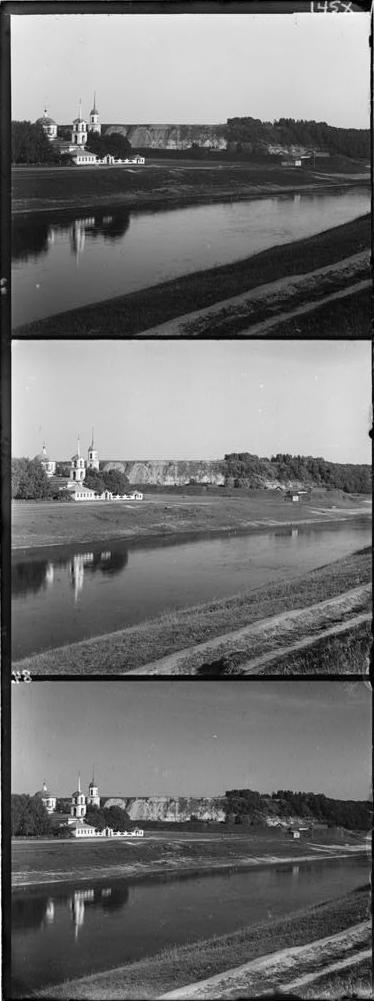
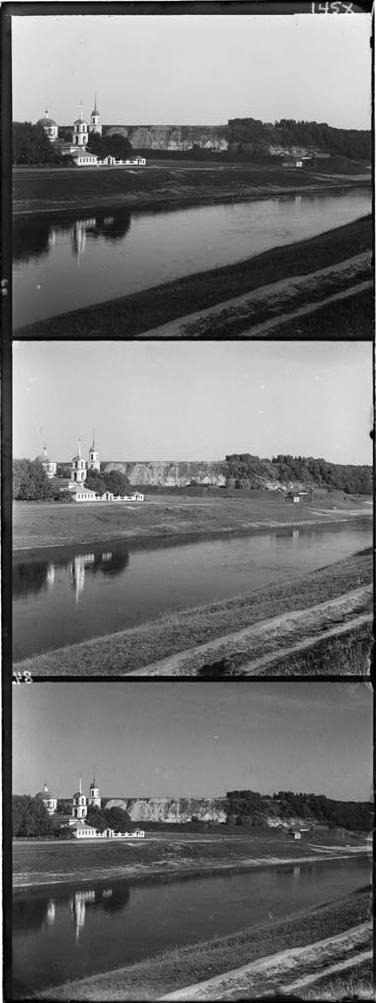
011122

diff --git a/main.py b/main.py
@@ -1,8 +1,15 @@
-import os
+import numpy
+import skimage.color
+
+
+import os, subprocess
+import skimage.io as skiIO
 
 import numpy as np
-import scipy
-import skimage.io as skimgIO
+import skimage.color as skiColor
+
+from skimage.registration import phase_cross_correlation
+import skimage.exposure
 
 def removeWhiteBorder(img:np.ndarray, fileName:str):
     # p = img[10,10] # holds value of background pixel value
@@ -12,63 +19,161 @@ def removeWhiteBorder(img:np.ndarray, fileName:str):
 
     # # checks upper offset of p colored background
     for i in range(0, len(img)): # up (0 to 1024)
-        if(img[i,xMid] < 100):
+        if(img[i,xMid] < 220):
             newBorders[0] = i
             break
     for i in range(len(img)-1, -1, -1): # down (1024 to 0)
-        if(img[i,xMid] < 100):
+        if(img[i,xMid] < 220):
             newBorders[1] = i
             break
     for i in range(0, len(img[0])): # left (0 to 398)
-        if(img[yMid, i] < 100):
+        if(img[yMid, i] < 220):
             newBorders[2] = i
             break
     for i in range(len(img[0])-1, -1, -1): # right (398 to 0)
-        if(img[yMid, i] < 100):
+        if(img[yMid, i] < 220):
             newBorders[3] = i
             break
 
-    img = img[newBorders[0]:newBorders[1], newBorders[2]:newBorders[3]]
-    skimgIO.imsave("./cropped/" + fileName, img)
+    img = img[newBorders[0]:newBorders[1], newBorders[2]:newBorders[3]] # white borders cropped version
+    skiIO.imsave("./cropped/" + fileName, img)
     return img
 
 
-def corr(A:np.ndarray, B:np.ndarray):
-    maxCorr = scipy.signal.correlate2d(A,B)
-    for i in range(0, len(maxCorr)):
-        for j in range(0, len(maxCorr[0])):
-            maxCorr[i][j]
+def offset(A:np.ndarray,B:np.ndarray):
+    off = phase_cross_correlation(A, B)[0]
+    offInt = [int(off[0]), int(off[1])]
 
-    return maxCorr
+    return offInt
+
+
+def shiftArr(arr:np.ndarray, off:np.ndarray):
+    arr = np.roll(arr, off[0], axis=0)
+    arr = np.roll(arr, off[1], axis=1)
+
+    return arr
 
 
 def alignRGB(img:np.ndarray):
-    height = int(len(img)/3)
+
+    height = int(len(img)/3) # find height of each channel
+
+    # get BGR channels
     B = img[0:height]
     G = img[height:2*height]
     R = img[2*height:3*height]
 
-    aligned = np.dstack([R,G,B])
-    return aligned
+    # Shift chanels by offset ========
+    gOffset = offset(B,G)
+    rOffset = offset(B,R)
+
+    G = shiftArr(G, gOffset)
+    R = shiftArr(R, rOffset)
+    # ================================
+
+    return np.dstack([R,G,B])
+
+
+# ================================================================
+# ================================================================
+
+
+def gammaCorrection(img:np.ndarray, gamma:float):
+    return np.uint8(255.0 * (img / 255.0) ** (gamma))
+
+def histogramEquializaiton(img:np.ndarray):
+    hsvimg = skiColor.rgb2hsv(img)
+    val = hsvimg[:,:,2]
+
+    val = skimage.exposure.equalize_hist(val)
+
+    hsvimg[:,:,2] = val
+    img = skiColor.hsv2rgb(hsvimg)
+
+    return img
+
+
+def laplacianFilter8w(img:np.ndarray, coeff:float):
+
+    hsvimg = skiColor.rgb2hsv(img)
+
+    val = hsvimg[:,:,2]
+    newVal = np.ndarray(val.shape, dtype=val.dtype)
+
+    for i in range(1, len(val)-1):
+        for j in range(1, len(val[0])-1):
+            newVal[i][j] = (1.0+coeff*8) * val[i][j] - coeff*(val[i][j+1] + val[i][j-1] + val[i+1][j] + val[i-1][j]
+                                                        + val[i+1][j+1] + val[i+1][j-1] + val[i-1][j+1] + val[i-1][j-1])
+
+    newVal = newVal.clip(0.0,1.0)
+
+    hsvimg[:, :, 2] = newVal
+    img = skiColor.hsv2rgb(hsvimg)
+    img = (img*255)
+    img = numpy.ndarray.astype(img, "uint8")
+    return img
+
+
+def enhanceOpsInterface(img:np.ndarray, operation:str, func):
+
+    skiIO.imshow(img)
+    skiIO.show()
+
+    result = img
+    while True:
+
+        ans = input("["+operation+"]\nEnter γ as float\n('d': done):\n")
+        if(ans.__eq__("d")):
+            return result
+        try:
+            value = float(ans)
+
+            result = func(img,value)
+
+            con = np.concatenate((img,result), axis=1)
+            skiIO.imshow(con)
+            skiIO.show()
+        except ValueError:
+            print("[INVALID INPUT]")
+
 
 
 fileNames = os.listdir("./data") # Get file names
-#'./data/00056v.jpg'
-# img = skimgIO.imread("./data/00056v.jpg")
+
+'./data/000911v.jpg'
+fileName = "00911v.jpg"
+img = skiIO.imread("./data/" + fileName)
+img = removeWhiteBorder(img, fileName)
+img = alignRGB(img)
+skiIO.imshow(img)
+skiIO.imsave("./aligned/" + fileName, img)
+
+histogramEquializaiton(img)
 
 for fileName in fileNames:
-    img = skimgIO.imread("./data/"+fileName)
+
+    img = skiIO.imread("./data/"+fileName)
+
     img = removeWhiteBorder(img, fileName)
     img = alignRGB(img)
-    skimgIO.push(img)
-    skimgIO.show()
-    break
-    skimgIO.imsave("./output/" + fileName, img)
+
+    # ================================================================
+    # ================================================================
+
+    img = gammaCorrection(img, 1.6)
+    img = laplacianFilter8w(img, 0.15)
 
 
-#for fileName in fileNames:
-#'./data/00056v.jpg'
-#align_rgb(fileNames[0])
+    print(fileName + " done")
+    skiIO.imsave("./enhanced/" + fileName, img)
+
+subprocess.Popen(f'explorer {os.path.realpath("./enhanced")}')
+
+# DECIDE FUNC COEFFS
+# GAMMA AND LAPLACE COMBO IS ENOUGH
+# CLEAR UNUSED CODES AND COMMENTS
+# DONT WASTE TOO MUCH TIME ON ONE
+# START TO WRITE REPORT
 
 
 
